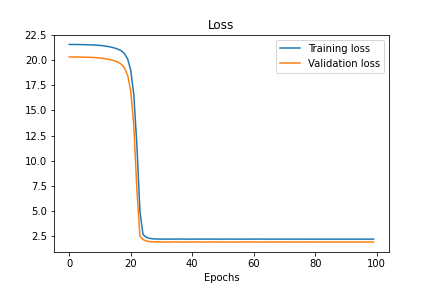
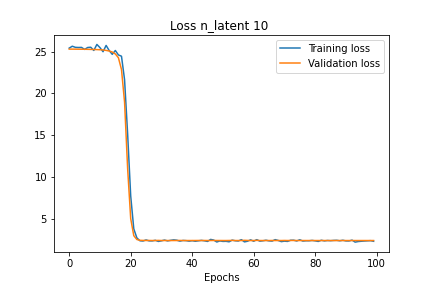
git push

diff --git a/spender/saved_model/inspect.py b/spender/saved_model/inspect.py
@@ -12,32 +12,34 @@ np.savetxt('./generate_latent_2/losses.txt',np.array(losses))
 
 
 """
+
 ### Load and visualize losses ###
-losses=np.loadtxt('./generate_latent_2/losses.txt')
+losses=np.loadtxt('./generate_latent_2/latent_16/losses.txt')
 #plot losses
 epochs=range(len(losses[:,0]))
-plt.plot(epochs,losses[:,0],label='Training loss')
-plt.plot(epochs,losses[:,1],label='Validation loss')
+plt.plot(epochs[20:],losses[20:,0],label='Training loss')
+plt.plot(epochs[20:],losses[20:,1],label='Validation loss')
 plt.xlabel('Epochs')
-plt.title('Loss')
+plt.title('Loss n_latent 16 ')
 plt.legend()
-plt.savefig('./generate_latent_2/losses.png')
+#plt.savefig('./generate_latent_2/latent_16/losses.png')
 plt.show()
-"""
 
+"""
 ### load and visualize percentiles and latents###
 
-test_set=100
-batch_size=100
+test_set=1000
+batch_size=1000
+n_latent=14
 
-percent_pred=np.load('./generate_latent_2/y_test_pred.npy',allow_pickle=True)
-latents=np.load('./generate_latent_2/latents.npy',allow_pickle=True)
-percent=np.load('./generate_latent_2/y_test.npy',allow_pickle=True)
+percent_pred=np.load('./generate_latent_2/latent_'+str(n_latent)+'/y_test_pred.npy',allow_pickle=True)
+latents=np.load('./generate_latent_2/latent_'+str(n_latent)+'/latents.npy',allow_pickle=True)
+percent=np.load('./generate_latent_2/latent_'+str(n_latent)+'/y_test.npy',allow_pickle=True)
 
 
-percent_pred_arr=np.zeros((test_set,10))
-latents_arr=np.zeros((test_set,10))
-percent_arr=np.zeros((test_set,10))
+percent_pred_arr=np.zeros((test_set,9))
+latents_arr=np.zeros((test_set,n_latent))
+percent_arr=np.zeros((test_set,9))
 
 
 for j in range(len(percent_pred)):
@@ -56,18 +58,19 @@ for j in range(len(percent)):
 
 
 
-for j in np.arange(1,10):
+for j in np.arange(1,10): #percentiles go from 10% to 90%
     for i in range(test_set): 
-        plt.plot(percent_arr[i,j],percent_pred_arr[i,j],'.')#,'k.')
-    x=np.arange(np.min(percent_arr[:,j]),np.max(percent_arr[:,j]))
+        plt.plot(percent_arr[i,j-1],percent_pred_arr[i,j-1],'.')#,'k.')
+    x=np.arange(np.min(percent_arr[:,j-1]),np.max(percent_arr[:,j-1]))
     plt.plot(x,x)
     #plt.title('Percentiles ')
-    plt.xlabel('Time percentile '+str(j)+' real (Gyrs)')
-    plt.ylabel('Time percentile '+str(j)+' predicted (Gyrs)')
+    plt.xlabel('Time percentile '+str(j*10)+' real (Gyrs)')
+    plt.ylabel('Time percentile '+str(j*10)+' predicted (Gyrs)')
     plt.show()
 
 """
-for j in range(10):
+
+for j in range(n_latent):
     plt.hist(latents_arr[:,j])
     plt.title('Latent '+str(j))
     plt.xlabel('Value')
